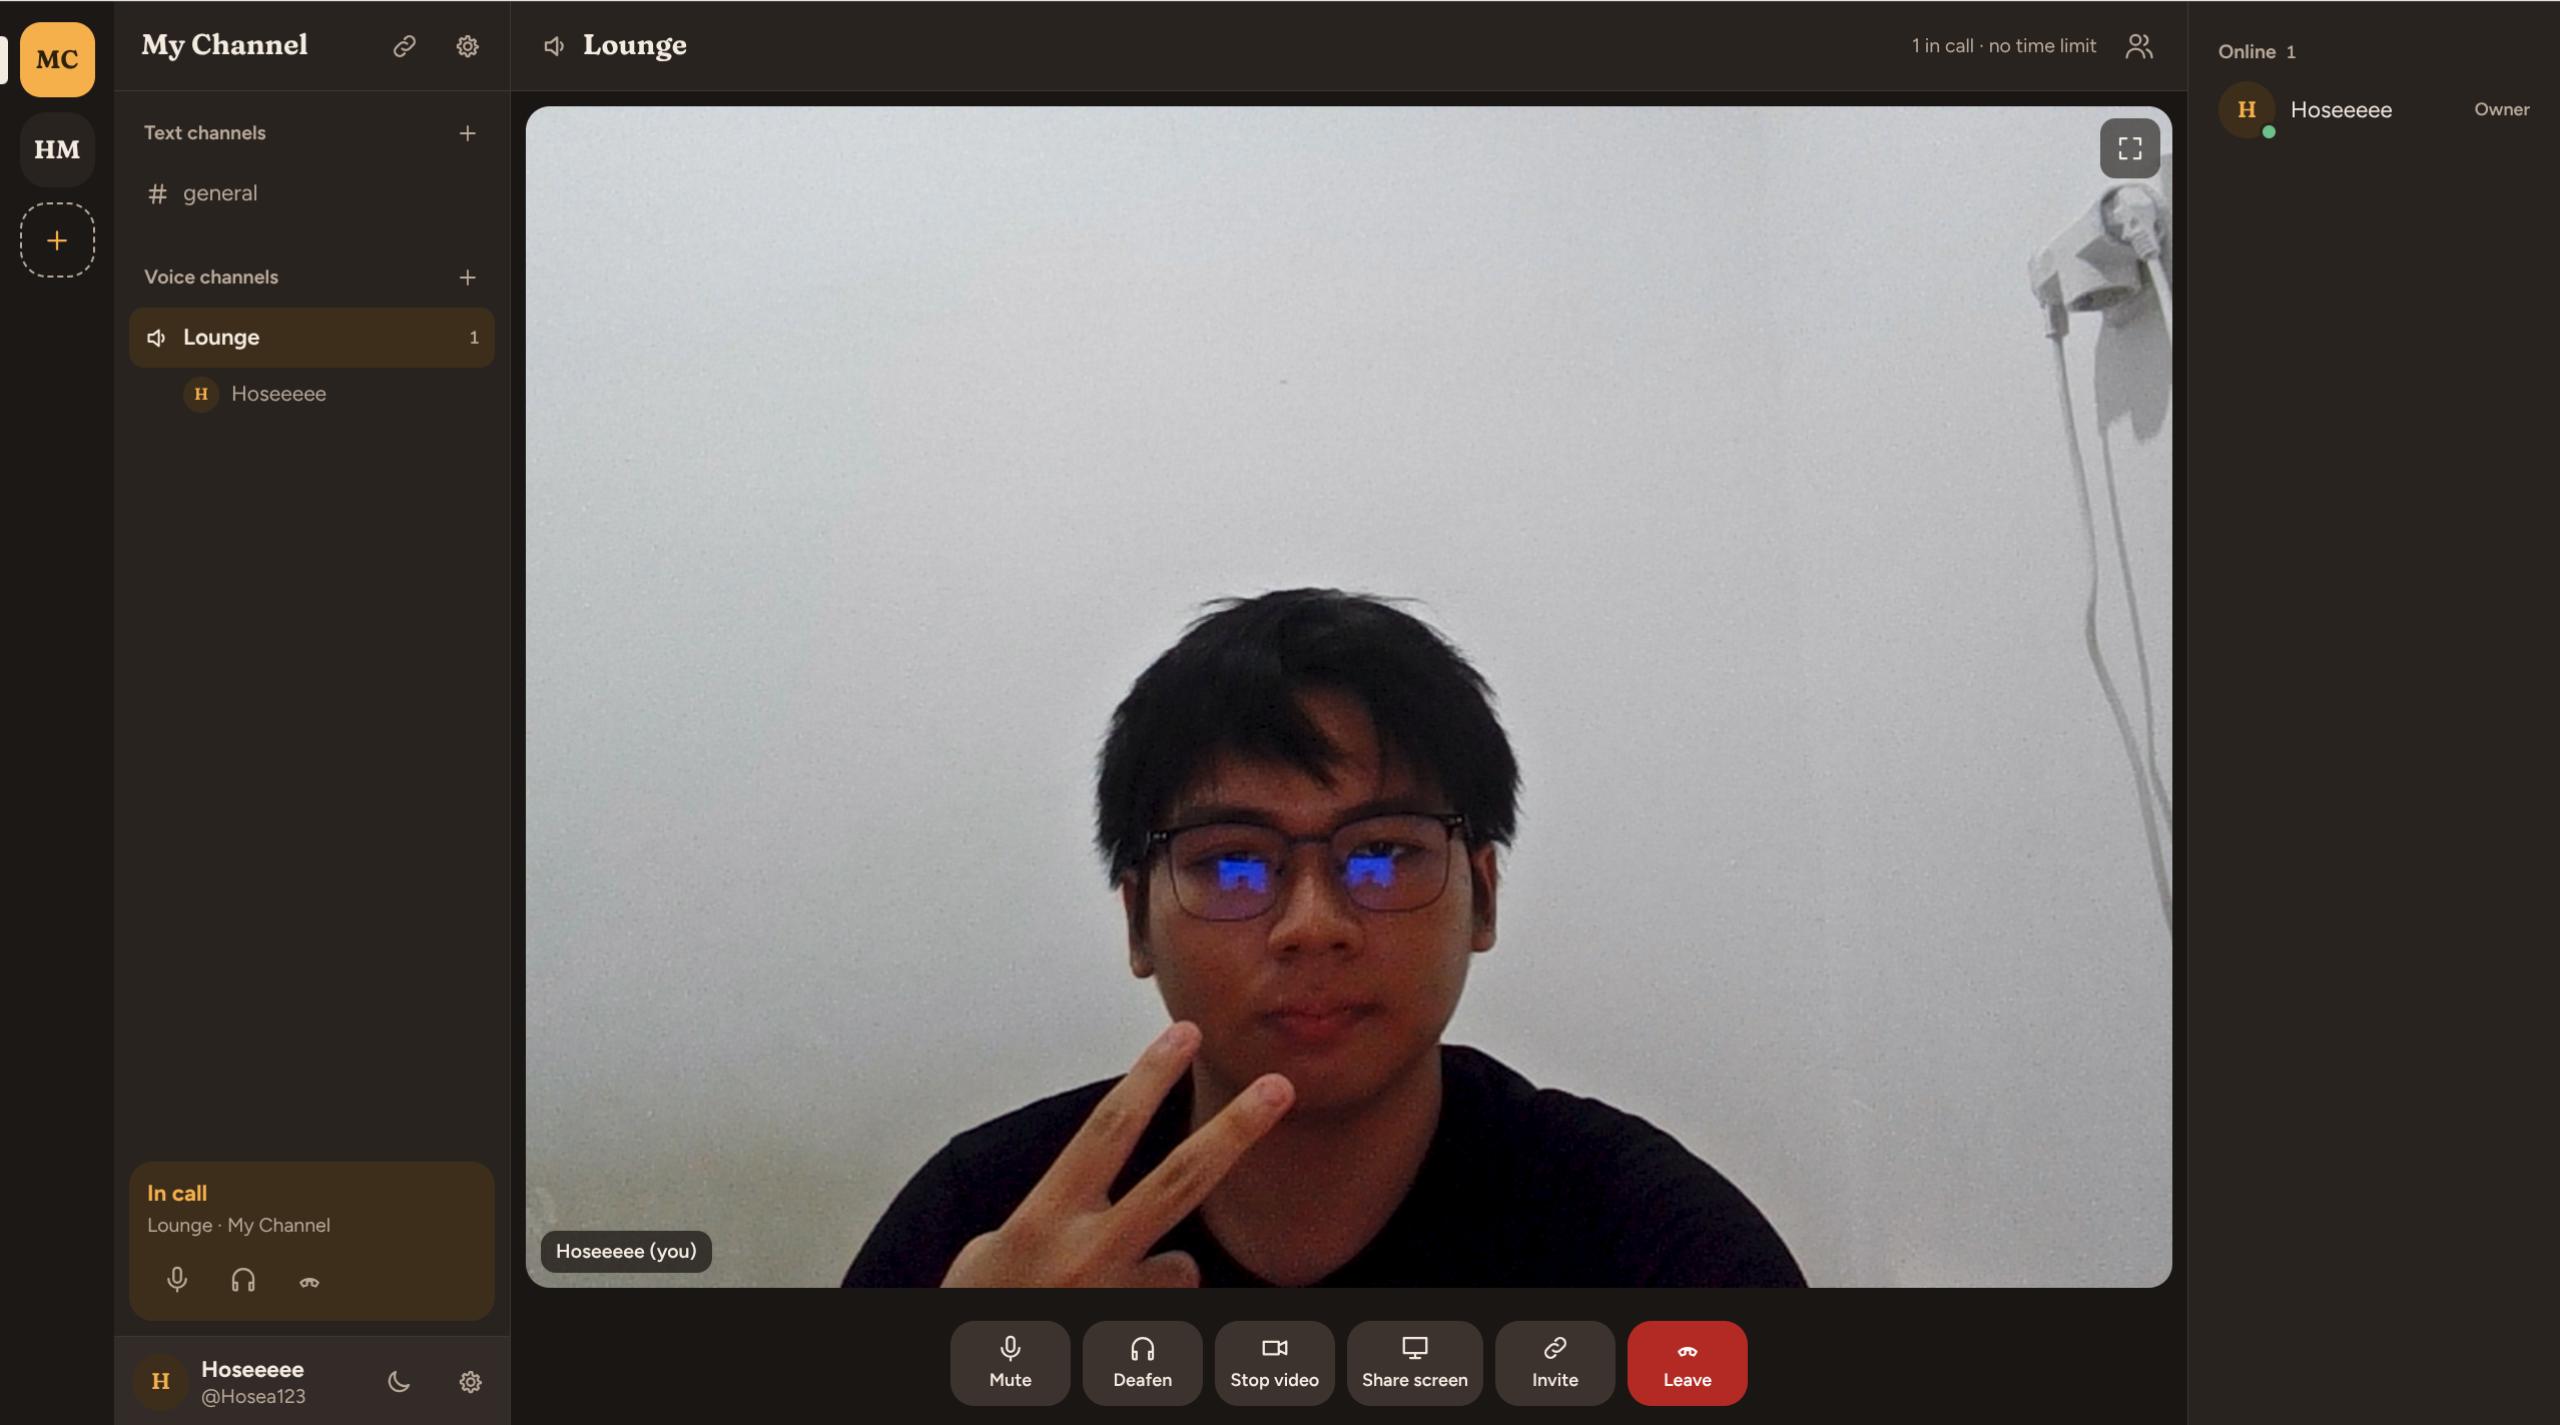
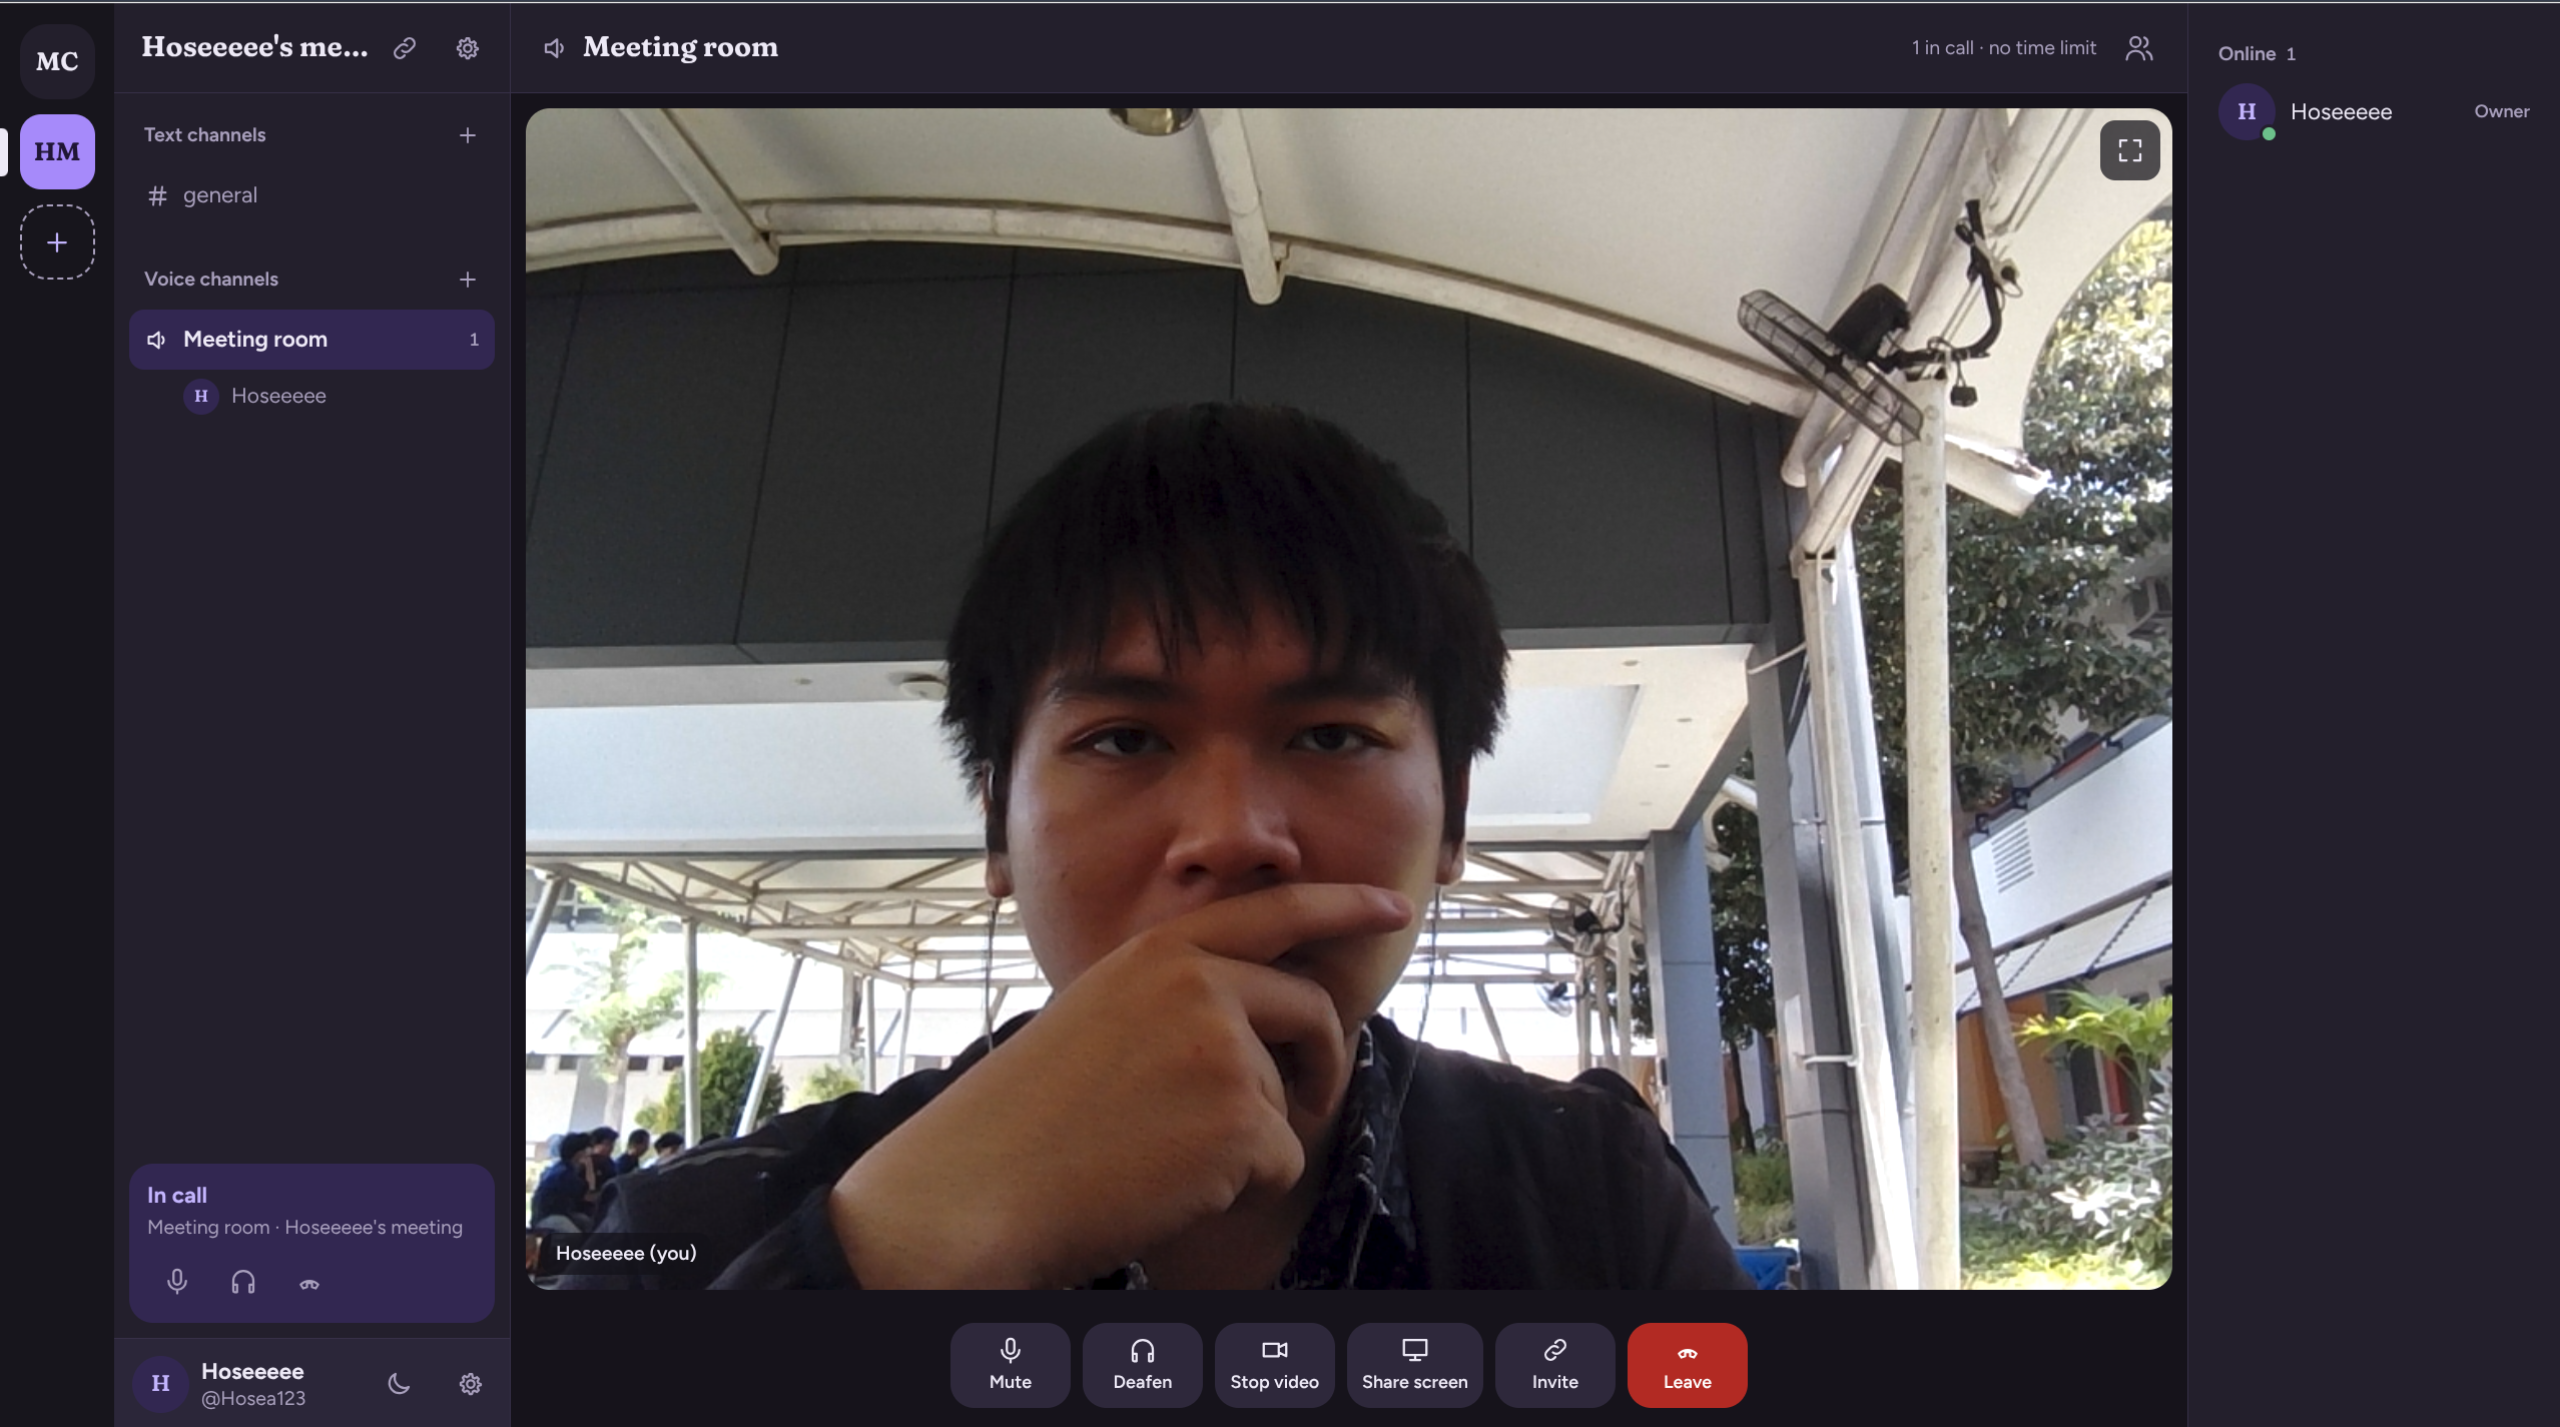
edit theme

diff --git a/public/styles.css b/public/styles.css
@@ -1,4 +1,4 @@
-/* Cream neutrals with one marigold accent for joining, talking and the current selection.
+/* Pale white neutrals with one gold accent (light) or violet accent (dark) for joining, talking and the current selection.
    Red only on leave/delete, sage only for "online". */
 
 @font-face {
@@ -18,27 +18,31 @@
 }
 
 :root {
-  --bg: #faf5ee;
-  --surface: #fffdf9;
-  --surface-2: #f2eadf;
-  --rail: #ebe1d3;
-  --text: #2a211b;
-  --muted: #6b5d52;
-  --border: #e3d8c9;
-  --accent: #f2a93b;
-  --accent-ink: #2a1a05;
-  --accent-text: #8a4b00;
-  --accent-soft: #fcebc9;
+  --bg: #fbfaf6;
+  --surface: #ffffff;
+  --surface-2: #f4f1e8;
+  --rail: #efebdf;
+  --text: #1f1c14;
+  --muted: #676050;
+  --border: #e6e0cf;
+  --accent: #c9a227;
+  --accent-ink: #231a00;
+  --accent-text: #7a5f00;
+  --accent-soft: #f6eecb;
   --danger: #b3261e;
   --danger-ink: #ffffff;
   --ok: #2f7d4f;
-  --focus: #a55d00;
-  --stage: #221b17;
-  --tile: #332a24;
-  --stage-text: #f3ebe1;
-  --ctrl: #3a302a;
-  --ctrl-hover: #4a3e36;
-  --shadow: 0 18px 50px rgba(60, 38, 18, 0.18);
+  --focus: #8a6c00;
+  --stage: #1f1c16;
+  --tile: #2e2a21;
+  --tile-avatar: #4a4230;
+  --tile-avatar-text: #f6eecb;
+  --stage-text: #f5f1e6;
+  --ctrl: #38332a;
+  --ctrl-hover: #474035;
+  --overlay: rgba(16, 14, 10, 0.72);
+  --scrim: rgba(24, 20, 10, 0.45);
+  --shadow: 0 18px 50px rgba(60, 50, 20, 0.14);
   --r-lg: 16px;
   --r: 10px;
   --r-sm: 6px;
@@ -49,46 +53,60 @@
 
 @media (prefers-color-scheme: dark) {
   :root:not([data-theme='light']) {
-    --bg: #1c1714;
-    --surface: #241e1a;
-    --surface-2: #2f2722;
-    --rail: #15110f;
-    --text: #f3ebe1;
-    --muted: #b9a999;
-    --border: #3d332c;
-    --accent: #f5b04a;
-    --accent-ink: #2a1a05;
-    --accent-text: #f5b04a;
-    --accent-soft: #3a2a14;
+    --bg: #15121c;
+    --surface: #1d1928;
+    --surface-2: #272136;
+    --rail: #100d16;
+    --text: #eeeaf6;
+    --muted: #a9a0bd;
+    --border: #342c46;
+    --accent: #a78bfa;
+    --accent-ink: #1a0f33;
+    --accent-text: #c4b5fd;
+    --accent-soft: #2e2250;
     --danger: #f07b6f;
     --danger-ink: #2a0806;
     --ok: #6cc28c;
-    --focus: #f5b04a;
-    --stage: #120e0c;
-    --tile: #231c18;
+    --focus: #c4b5fd;
+    --stage: #0e0b14;
+    --tile: #1c1727;
+    --tile-avatar: #3b2f5c;
+    --tile-avatar-text: #e4dcff;
+    --stage-text: #eeeaf6;
+    --ctrl: #2a2338;
+    --ctrl-hover: #372e49;
+    --overlay: rgba(10, 8, 16, 0.72);
+    --scrim: rgba(8, 6, 14, 0.6);
     --shadow: 0 18px 50px rgba(0, 0, 0, 0.5);
     color-scheme: dark;
   }
 }
 
 :root[data-theme='dark'] {
-  --bg: #1c1714;
-  --surface: #241e1a;
-  --surface-2: #2f2722;
-  --rail: #15110f;
-  --text: #f3ebe1;
-  --muted: #b9a999;
-  --border: #3d332c;
-  --accent: #f5b04a;
-  --accent-ink: #2a1a05;
-  --accent-text: #f5b04a;
-  --accent-soft: #3a2a14;
+  --bg: #15121c;
+  --surface: #1d1928;
+  --surface-2: #272136;
+  --rail: #100d16;
+  --text: #eeeaf6;
+  --muted: #a9a0bd;
+  --border: #342c46;
+  --accent: #a78bfa;
+  --accent-ink: #1a0f33;
+  --accent-text: #c4b5fd;
+  --accent-soft: #2e2250;
   --danger: #f07b6f;
   --danger-ink: #2a0806;
   --ok: #6cc28c;
-  --focus: #f5b04a;
-  --stage: #120e0c;
-  --tile: #231c18;
+  --focus: #c4b5fd;
+  --stage: #0e0b14;
+  --tile: #1c1727;
+  --tile-avatar: #3b2f5c;
+  --tile-avatar-text: #e4dcff;
+  --stage-text: #eeeaf6;
+  --ctrl: #2a2338;
+  --ctrl-hover: #372e49;
+  --overlay: rgba(10, 8, 16, 0.72);
+  --scrim: rgba(8, 6, 14, 0.6);
   --shadow: 0 18px 50px rgba(0, 0, 0, 0.5);
   color-scheme: dark;
 }
@@ -1037,7 +1055,7 @@ select {
   transition: outline-color 0.12s;
 }
 
-/* The identity motif: whoever is talking gets the marigold ring, here and in the sidebar. */
+/* The identity motif: whoever is talking gets the accent ring, here and in the sidebar. */
 .tile.speaking {
   outline-color: var(--accent);
 }
@@ -1059,8 +1077,8 @@ select {
 }
 
 .tile-avatar .avatar {
-  background: #4a3a2c;
-  color: #fcebc9;
+  background: var(--tile-avatar);
+  color: var(--tile-avatar-text);
 }
 
 .filmstrip .avatar-lg {
@@ -1079,7 +1097,7 @@ select {
   gap: 6px;
   padding: 4px 10px;
   border-radius: var(--r);
-  background: rgba(18, 12, 8, 0.72);
+  background: var(--overlay);
   color: var(--stage-text);
   font-size: 13px;
   font-weight: 600;
@@ -1101,7 +1119,7 @@ select {
   position: absolute;
   top: 8px;
   right: 8px;
-  background: rgba(18, 12, 8, 0.6);
+  background: var(--overlay);
   color: var(--stage-text);
   opacity: 0;
 }
@@ -1112,7 +1130,7 @@ select {
 }
 
 .tile-focus:hover {
-  background: rgba(18, 12, 8, 0.85);
+  background: var(--stage);
   color: #fff;
 }
 
@@ -1154,17 +1172,17 @@ select {
 }
 
 .ctrl:focus-visible {
-  outline-color: #f5b04a;
+  outline-color: var(--accent);
 }
 
 .ctrl.on {
-  background: #f3ebe1;
+  background: var(--stage-text);
   color: #b3261e;
 }
 
 .ctrl.sharing {
-  background: #f5b04a;
-  color: #2a1a05;
+  background: var(--accent);
+  color: var(--accent-ink);
 }
 
 .ctrl-leave {
@@ -1267,7 +1285,7 @@ select {
 }
 
 .dialog::backdrop {
-  background: rgba(34, 22, 12, 0.5);
+  background: var(--scrim);
 }
 
 .dialog-head {
@@ -1427,7 +1445,7 @@ select {
     position: fixed;
     inset: 0;
     z-index: 10;
-    background: rgba(34, 22, 12, 0.45);
+    background: var(--scrim);
   }
 }
 
@@ -1485,7 +1503,7 @@ select {
     position: fixed;
     inset: 0;
     z-index: 10;
-    background: rgba(34, 22, 12, 0.45);
+    background: var(--scrim);
   }
 
   .only-narrow {

diff --git a/README.md b/README.md
@@ -2,7 +2,7 @@
 
 Self-hosted voice, video and chat for a group. It's organised like Discord (spaces with text and voice channels) and works like Zoom (one click gives you a meeting and a link to share). Calls have no time limit.
 
-![A video call in Call-me's dark theme: spaces on the left, the Lounge voice channel with one participant, a camera tile in the middle with call controls below, and the online member list on the right.](docs/call-camera.png)
+![A video call in Call-me's dark theme: spaces on the left, the Meeting room voice channel with one participant, a camera tile in the middle with call controls below, and the online member list on the right.](docs/call-camera.png)
 
 - **Spaces** with text and voice channels, roles (owner, admin, member), invite links, kick and ban
 - **Calls**: voice, camera, screen sharing, mute and deafen, speaking indicators, focus view
@@ -57,7 +57,7 @@ Browsers only allow camera and microphone on `localhost` or over HTTPS. Other de
 
 | Dark | Light |
 | --- | --- |
-| <img src="docs/chat-dark.png" alt="The #general text channel in the dark theme, with the space list, channel list, message box and member list." width="400"> | <img src="docs/chat-light.png" alt="The same #general text channel in the light theme." width="400"> |
+| <img src="docs/voice-dark.png" alt="The Meeting room voice channel in the dark theme, before joining: the space list, channel list, a violet Join call button and the member list." width="400"> | <img src="docs/voice-light.png" alt="The same voice channel in the light theme, with a gold Join call button." width="400"> |
 
 ### Spaces
 
@@ -100,7 +100,7 @@ Open a voice channel and click **Join call**. Your mic is on when you join. Came
 
 <img src="docs/call-screen-share.png" alt="A call with a shared browser tab filling the main tile, the sharer's own tile below it, and Stop sharing highlighted in the call controls. The sidebar marks the sharer as Live." width="720">
 
-- A **marigold ring** shows who is speaking, both on the video tile and in the sidebar.
+- An **accent ring** (gold in light mode, violet in dark) shows who is speaking, both on the video tile and in the sidebar.
 - Click the expand icon on a tile to **focus** it (useful for screen shares). Click the X to go back to the grid.
 - While you're in a call, the panel at the bottom of the sidebar keeps your mute, deafen and leave controls handy as you move between channels.
 - You can be in one call at a time. Joining a call from another tab or device moves you there.
